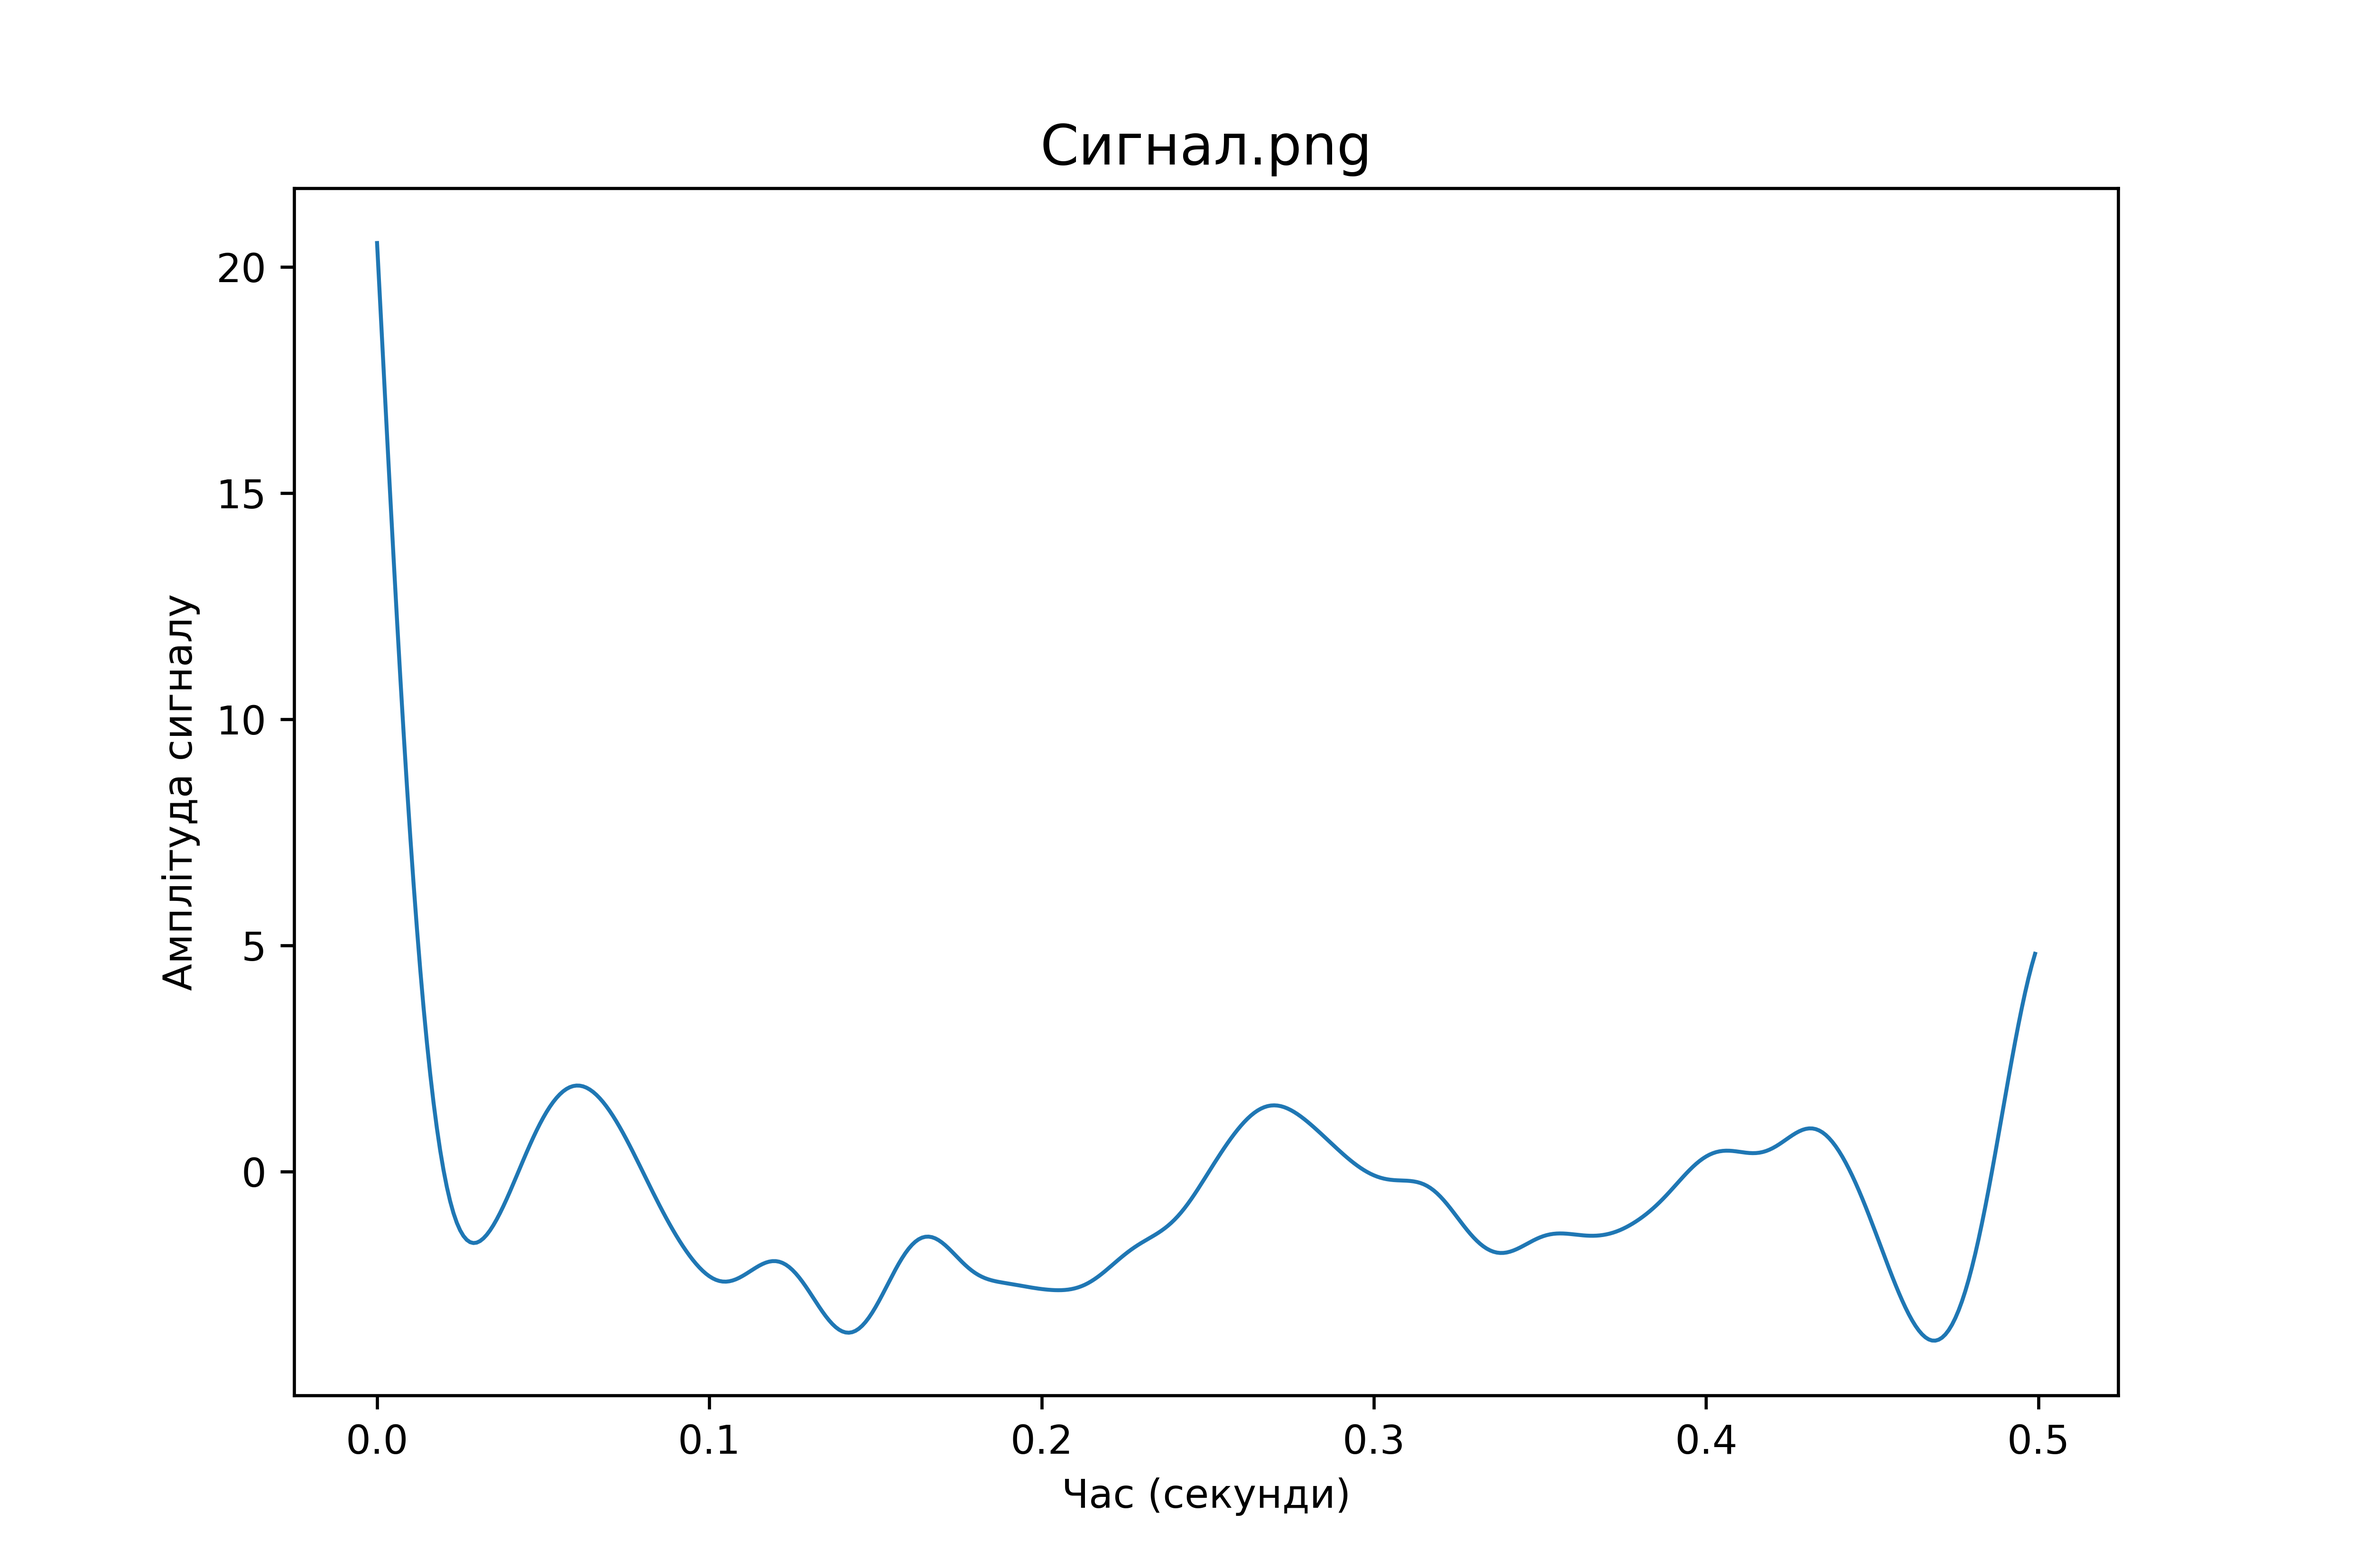
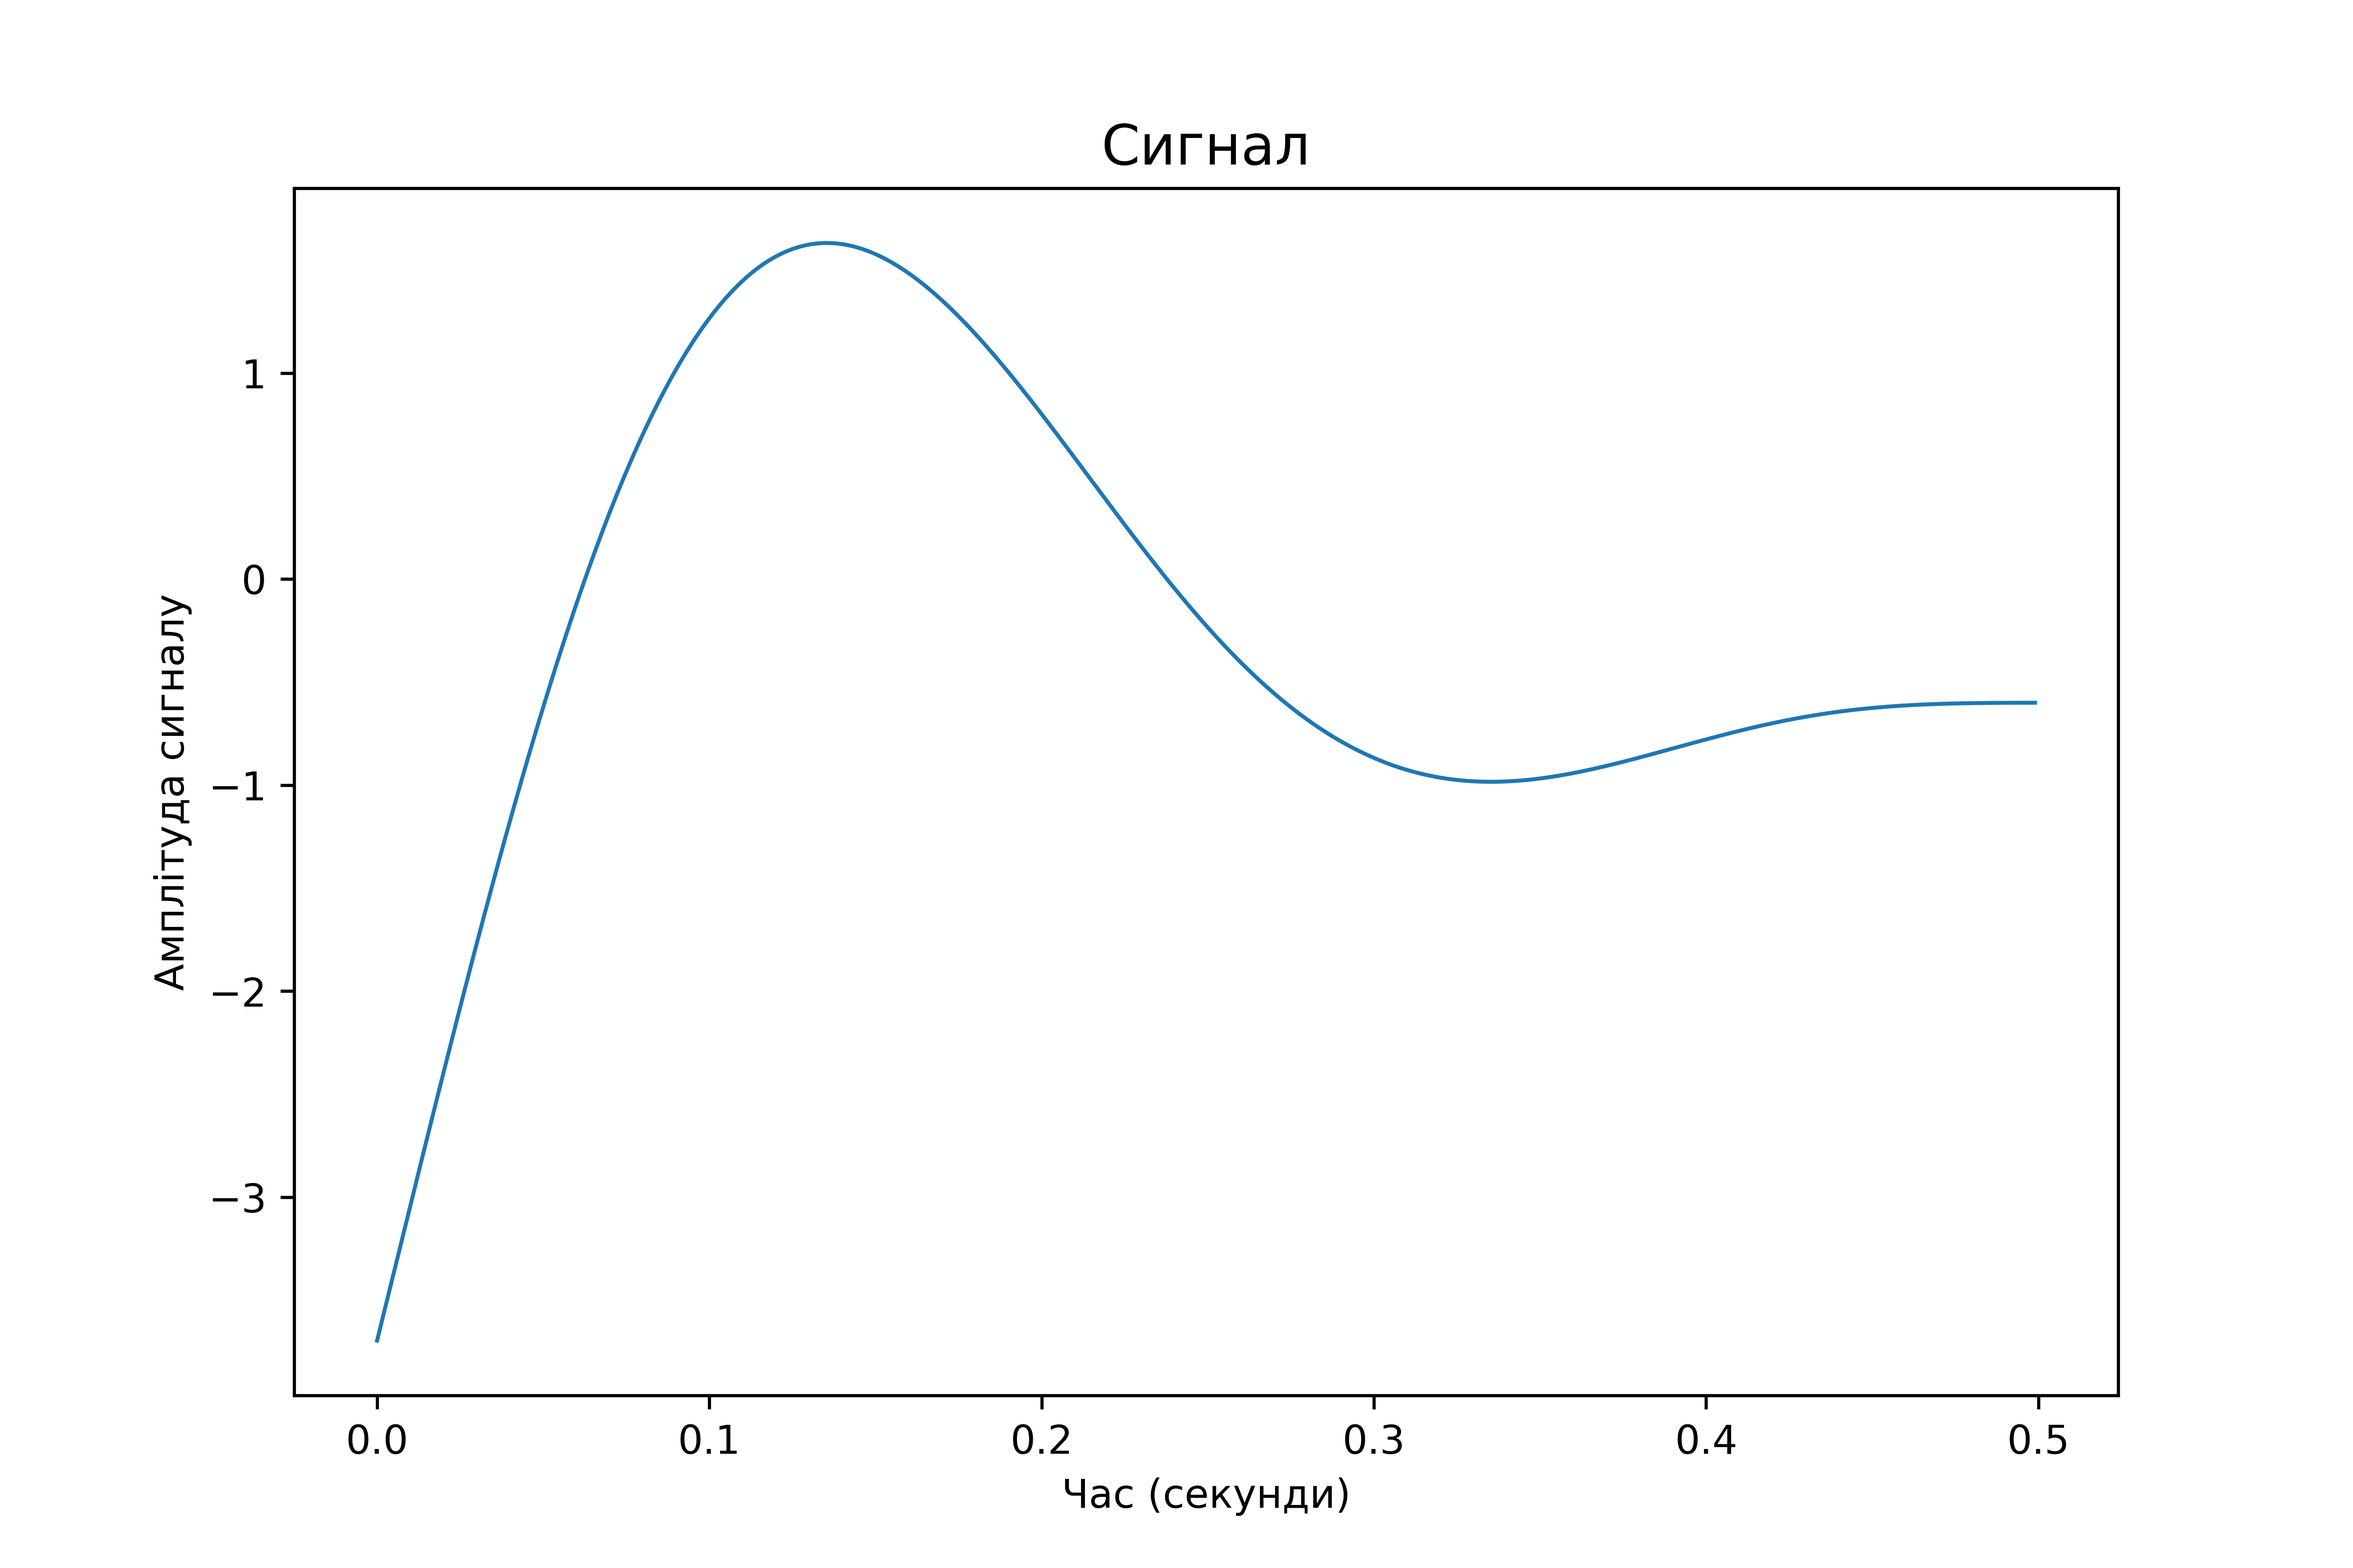
Signal processing, 2

diff --git a/SignalProcessing/SignalProcessing.py b/SignalProcessing/SignalProcessing.py
@@ -6,29 +6,105 @@ import matplotlib.pyplot as plt
 def main():
     n = 500
     Fs = 1000
-    FMax = 19
+    F_max = 3
+    Dt_list = [2, 4, 8, 16]
+    F_filter = 10
     randomNormal = numpy.random.normal(0, 10, n)
     x = numpy.arange(n) / Fs
-    w = FMax / (Fs / 2)
+    w = F_max / (Fs / 2)
     parametersFilter = signal.butter(3, w, "low", output="sos")
     y = signal.sosfiltfilt(parametersFilter, randomNormal)
     fig, ax = plt.subplots(figsize=(21 / 2.54, 14 / 2.54))
     ax.plot(x, y, linewidth=1)
     ax.set_xlabel("Час (секунди)")
     ax.set_ylabel("Амплітуда сигналу")
-    plt.title("Сигнал.png", fontsize=14)
+    plt.title("Сигнал", fontsize=14)
     fig.savefig(f"figures/Сигнал.png", dpi=600)
     plt.show()
+
     spectrum = fft.fft(y)
-    spectrumCenter = numpy.abs(fft.fftshift(spectrum))
+    spectrum_center = numpy.abs(fft.fftshift(spectrum))
     frequencyReadings = fft.fftfreq(n, 1 / n)
-    frequencyReadingsCenter = fft.fftshift(frequencyReadings)
+    frequency_readings_center = fft.fftshift(frequencyReadings)
     fig, ax = plt.subplots(figsize=(21 / 2.54, 14 / 2.54))
-    ax.plot(frequencyReadingsCenter, spectrumCenter, linewidth=1)
+    ax.plot(frequency_readings_center, spectrum_center, linewidth=1)
     ax.set_xlabel("Частота(Гц)")
     ax.set_ylabel("Амплітуда спектру")
     plt.title("Спектр сигналу", fontsize=14)
     fig.savefig(f"figures/Спектр сигналу.png", dpi=600)
+    plt.show()
+
+    discrete_signals = []
+    discrete_spectrums = []
+    vars2 = []
+    snr_list = []
+    for Dt in Dt_list:
+        discreteSignal = numpy.zeros(n)
+        for i in range(0, round(n / Dt)):
+            discreteSignal[i * Dt] = y[i * Dt]
+        discrete_spectrum = fft.fft(discreteSignal)
+        discrete_spectrum = numpy.abs(fft.fftshift(discrete_spectrum))
+        discrete_signals.append(discreteSignal)
+        discrete_spectrums.append(discrete_spectrum)
+        E1 = discreteSignal - y
+        var1 = numpy.var(y)
+        var2 = numpy.var(E1)
+        vars2.append(var2)
+        snr = var1 / var2
+        snr_list.append(snr)
+    w = F_filter / (Fs / 2)
+    parametersFilter = signal.butter(3, w, 'low', output='sos')
+    y = signal.sosfiltfilt(parametersFilter, discrete_signals)
+    fig, ax = plt.subplots(2, 2, figsize=(21 / 2.54, 14 / 2.54))
+    s = 0
+    for i in range(0, 2):
+        for j in range(0, 2):
+            ax[i][j].plot(x, discrete_signals[s], linewidth=1)
+            s += 1
+    fig.supxlabel("Час (секунди)", fontsize=14)
+    fig.supylabel("Амплітуда сигналу", fontsize=14)
+    fig.suptitle("Сигнал з кроком дисркетизації Dt = (2, 4, 8, 16)", fontsize=14)
+    fig.savefig(f"figures/Сигнал з кроком дисркетизації Dt = (2, 4, 8, 16).png", dpi=600)
+    plt.show()
+
+    fig, ax = plt.subplots(2, 2, figsize=(21 / 2.54, 14 / 2.54))
+    s = 0
+    for i in range(0, 2):
+        for j in range(0, 2):
+            ax[i][j].plot(frequency_readings_center, discrete_spectrums[s], linewidth=1)
+            s += 1
+    fig.supxlabel("Частота(Гц)", fontsize=14)
+    fig.supylabel("Амплітуда спектру", fontsize=14)
+    fig.suptitle("Спектри сигналів з кроком дисркетизації Dt = (2, 4, 8, 16)", fontsize=14)
+    fig.savefig(f"figures/Спектри сигналів з кроком дисркетизації Dt = (2, 4, 8, 16).png", dpi=600)
+    plt.show()
+
+    fig, ax = plt.subplots(2, 2, figsize=(21 / 2.54, 14 / 2.54))
+    s = 0
+    for i in range(0, 2):
+        for j in range(0, 2):
+            ax[i][j].plot(x, y[s], linewidth=1)
+            s += 1
+    fig.supxlabel("Час (секунди)", fontsize=14)
+    fig.supylabel("Амплітуда сигналу", fontsize=14)
+    fig.suptitle("Відновлені аналогові сигнали з кроком дисркетизації Dt = (2, 4, 8, 16)", fontsize=14)
+    fig.savefig(f"figures/Відновлені аналогові сигнали з кроком дисркетизації Dt = (2, 4, 8, 16).png", dpi=600)
+    plt.show()
+
+    fig, ax = plt.subplots(figsize=(21 / 2.54, 14 / 2.54))
+    ax.plot(Dt_list, vars2, linewidth=1)
+    ax.set_xlabel("Крок дискретизації")
+    ax.set_ylabel("Дисперсія")
+    plt.title("Залежність дисперсії від кроку дискретизації", fontsize=14)
+    fig.savefig(f"figures/Залежність дисперсії від кроку дискретизації.png", dpi=600)
+    plt.show()
+
+    fig, ax = plt.subplots(figsize=(21 / 2.54, 14 / 2.54))
+    ax.plot(Dt_list, snr_list, linewidth=1)
+    ax.set_xlabel("Крок дискретизації")
+    ax.set_ylabel("ССШ")
+    plt.title("Залежність співвідношення сигнал-шум від кроку дискретизації", fontsize=14)
+    fig.savefig(f"figures/Залежність співвідношення сигнал-шум від кроку дискретизації.png", dpi=600)
     plt.show()
 
 
